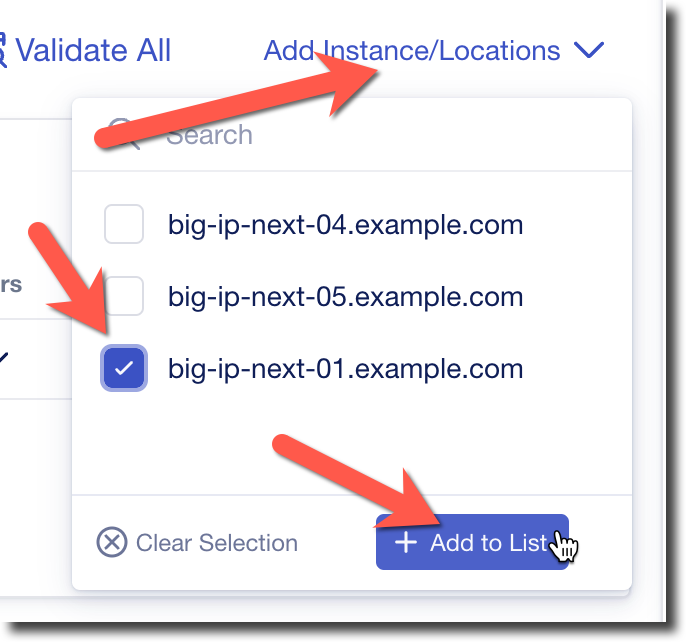
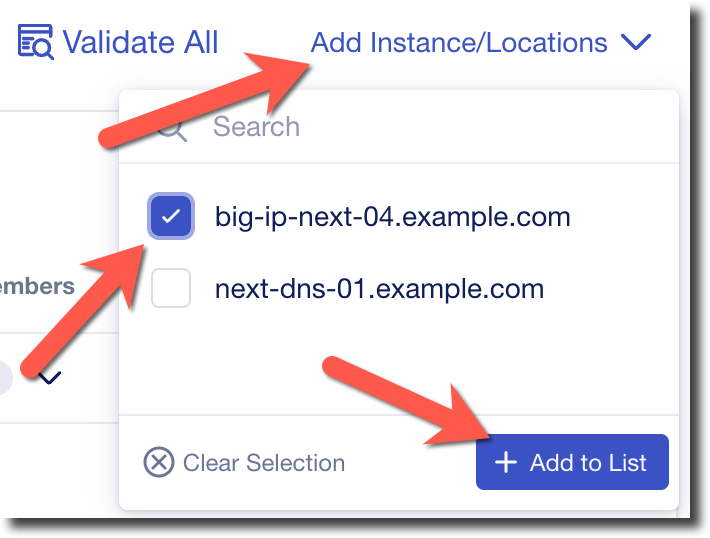
updates

diff --git a/docs/class1/module2/lab3.rst b/docs/class1/module2/lab3.rst
@@ -1,4 +1,4 @@
-Lab 3.3 - AS3 Editor
+Lab 2.3 - AS3 Editor
 ================================
 
 In this exercise we will modify an application created using the AS3 editor from an HTTP to an HTTPS application.
@@ -7,7 +7,7 @@ In the previous exercise we used the "Standard" template to deploy our applicati
 
 Using the "AS3 Editor" we can deploy an application that can take advantage of the full scope of settings that are available in AS3.
 
-3.3.1 - View AS3 Application
+2.3.1 - View AS3 Application
 ~~~~~~~~~~~~~~~~~~~~~~~~~~~~
 
 First we will view an application created using the AS3 Editor.
@@ -26,7 +26,7 @@ First we will view an application created using the AS3 Editor.
     .. image:: as3-demo-app-firefox.png
         :scale: 50%
 
-3.3.2 - Modify AS3 Application
+2.3.2 - Modify AS3 Application
 ~~~~~~~~~~~~~~~~~~~~~~~~~~~~~~~~~~
 
 #. Navigate to Applications
@@ -127,7 +127,7 @@ First we will view an application created using the AS3 Editor.
 
 #. Click on "Deploy"
 
-3.3.3 - View modified AS3 Application
+2.3.3 - View modified AS3 Application
 ~~~~~~~~~~~~~~~~~~~~~~~~~~~~~~~~~~~~~
 
 #. Inside the Firefox browser session go to https://as3-demo-app.example.com (make sure you go to "https" and not "http")
@@ -136,3 +136,61 @@ First we will view an application created using the AS3 Editor.
 
     .. image:: as3-demo-app-https-firefox.png
         :scale: 50%
+
+2.3.4 - (Optional) Create FastL4 AS3 Application
+~~~~~~~~~~~~~~~~~~~~~~~~~~~~~~~~~~~~~~~~~~~~~~~~
+
+The following is an example of creating a FastL4 AS3 application
+
+.. code-block:: json
+
+    {
+        "class": "ADC",
+        "id": "adc-service-fastl4-canonical",
+        "schemaVersion": "3.0.0",
+        "my_tenant": {
+            "class": "Tenant",
+            "as3-demo-app2": {
+                "class": "Application",
+                "l4Profile": {
+                    "class": "L4_Profile",
+                    "idleTimeout": 600,
+                    "looseClose": true,
+                    "looseInitialization": true,
+                    "resetOnTimeout": true,
+                    "tcpCloseTimeout": 43200,
+                    "tcpHandshakeTimeout": 43200
+                },
+                "my_pool": {
+                    "class": "Pool",
+                    "loadBalancingMode": "least-connections-member",
+                    "members": [
+                        {
+                            "serverAddresses": [
+                                "10.1.20.100",
+                                "10.1.20.101"
+                            ],
+                            "servicePort": 8080
+                        }
+                    ],
+                    "monitors": [
+                        "icmp"
+                    ],
+                    "serviceDownAction": "none",
+                    "slowRampTime": 10
+                },
+                "my_service": {
+                    "class": "Service_L4",
+                    "pool": "my_pool",
+                    "profileL4": {
+                        "use": "l4Profile"
+                    },
+                    "snat": "auto",
+                    "virtualAddresses": [
+                        "10.1.10.113"
+                    ],
+                    "virtualPort": 80
+                }
+            }
+        }
+    }

diff --git a/docs/class1/module2/lab4.rst b/docs/class1/module2/lab4.rst
@@ -70,7 +70,7 @@ Lab 2.4.3 - Edit Application
 
 #. Add Instance
 
-    Under "Add Instance/Locations" select "big-ip-next-01" and click "+ Add to list"
+    Under "Add Instance/Locations" select "big-ip-next-04.example.com" and click "+ Add to list"
 
     .. image:: gr-app-edit-add-instance.png
         :scale: 50%
